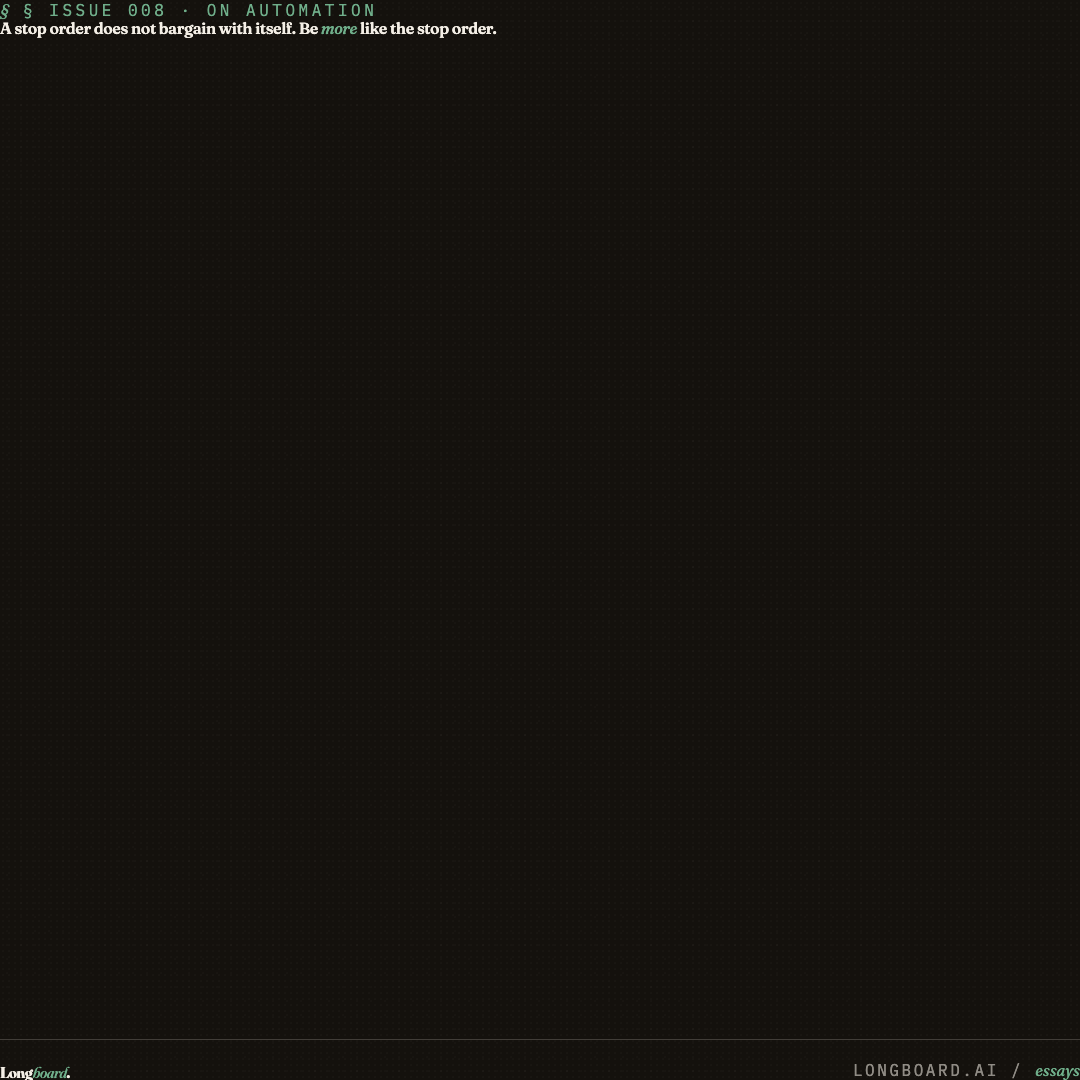
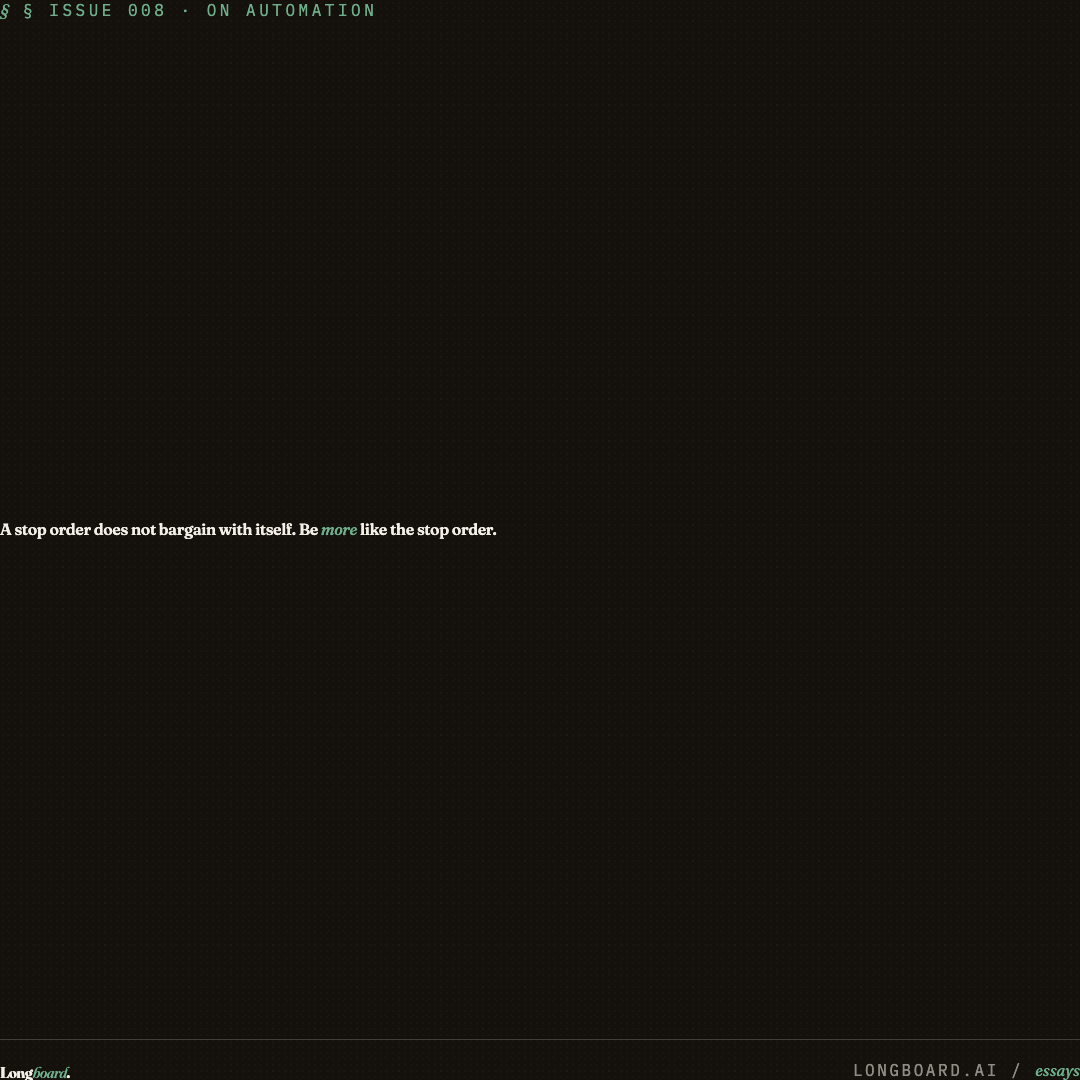
fix: Treatment B card layout — kicker top, quote middle, wordmark bottom
Previous layout nested .quote inside .top (two flex children),
which crammed kicker + quote into the top portion with empty
space below. Now Treatment B uses three direct flex children of
.treat-b: .kicker-line, .quote, .bottom — with
justify-content:space-between distributing them across the full
card height. Quote centers visually.

Also: removed the fixed margin-bottom on Treatment B's kicker-line
at each size variant (44/48/56px) since vertical spacing is now
handled by the flex distribution. Added position:relative + z-index:2
directly to .treat-b .kicker-line and .treat-b .quote so they sit
above the § ornament (previously inherited from the now-removed
.top wrapper).

Treatment A layout unchanged — its three-child structure (top with
kicker+attr, quote, bottom) was already correct.

All 48 PNGs regenerated.

Changed region(s): [[0.0, 0.4889, 0.4583, 0.5194], [0.0, 0.0, 0.4583, 0.0306]]

diff --git a/scripts/card-template.html b/scripts/card-template.html
@@ -121,12 +121,12 @@
     font-family: var(--display); font-style: italic; font-weight: 400;
     color: var(--moss-2); opacity: .22; line-height: 1;
   }
-  .treat-b .top { position: relative; z-index: 2; }
-  .treat-b .top .kicker-line { color: var(--moss-2); }
-  .treat-b .top .kicker-line::before { color: var(--moss-2); }
+  .treat-b .kicker-line { color: var(--moss-2); position: relative; z-index: 2; }
+  .treat-b .kicker-line::before { color: var(--moss-2); }
   .treat-b .quote {
     font-weight: 600; color: var(--paper);
     letter-spacing: -0.025em; line-height: 1.02;
+    position: relative; z-index: 2;
   }
   .treat-b .quote em { font-style: italic; color: var(--moss-2); font-weight: 500; }
   .treat-b .bottom {
@@ -152,7 +152,7 @@
 
   .size-og .treat-b { padding: 64px 88px; }
   .size-og .treat-b::before { font-size: 300px; }
-  .size-og .treat-b .kicker-line { font-size: 13px; margin-bottom: 44px; }
+  .size-og .treat-b .kicker-line { font-size: 13px; }
   .size-og .treat-b .quote { font-size: 80px; }
   .size-og .treat-b .wordmark { font-size: 48px; }
   .size-og .treat-b .attr-line { font-size: 13px; }
@@ -166,7 +166,7 @@
 
   .size-square .treat-b { padding: 72px 80px; }
   .size-square .treat-b::before { font-size: 340px; top: -50px; }
-  .size-square .treat-b .kicker-line { font-size: 14px; margin-bottom: 48px; }
+  .size-square .treat-b .kicker-line { font-size: 14px; }
   .size-square .treat-b .quote { font-size: 72px; }
   .size-square .treat-b .wordmark { font-size: 44px; }
   .size-square .treat-b .attr-line { font-size: 14px; }
@@ -180,7 +180,7 @@
 
   .size-story .treat-b { padding: 120px 80px; }
   .size-story .treat-b::before { font-size: 420px; top: -60px; }
-  .size-story .treat-b .kicker-line { font-size: 14px; margin-bottom: 56px; }
+  .size-story .treat-b .kicker-line { font-size: 14px; }
   .size-story .treat-b .quote { font-size: 80px; }
   .size-story .treat-b .wordmark { font-size: 44px; }
   .size-story .treat-b .attr-line { font-size: 14px; }
@@ -214,17 +214,13 @@
     ? `longboard.ai / <em>essays</em>`
     : `${kicker}`;
 
-  // Treatment A: top (kicker + attr) | quote | bottom — three flex children.
-  // Treatment B: top (kicker + quote) | bottom — two flex children.
-  // This matches the mockup's structure exactly. Treatment B's quote
-  // lives inside .top so justify-content:space-between gives it the
-  // full upper area instead of squeezing it into the middle third.
+  // Both treatments: three flex children — kicker top, quote middle,
+  // wordmark bottom. justify-content:space-between distributes them
+  // across the full card height so the quote centers visually.
   const html = treatment === 'b'
     ? `<div class="card ${grainClass} ${treatClass}" style="width:${w}px;height:${h}px;">
-        <div class="top">
-          <div class="kicker-line">${kickerContent}</div>
-          <div class="quote">${quote}</div>
-        </div>
+        <div class="kicker-line">${kickerContent}</div>
+        <div class="quote">${quote}</div>
         <div class="bottom">
           <div class="wordmark">Long<em>board</em>.</div>
           <div class="attr-line">${attrRight}</div>
